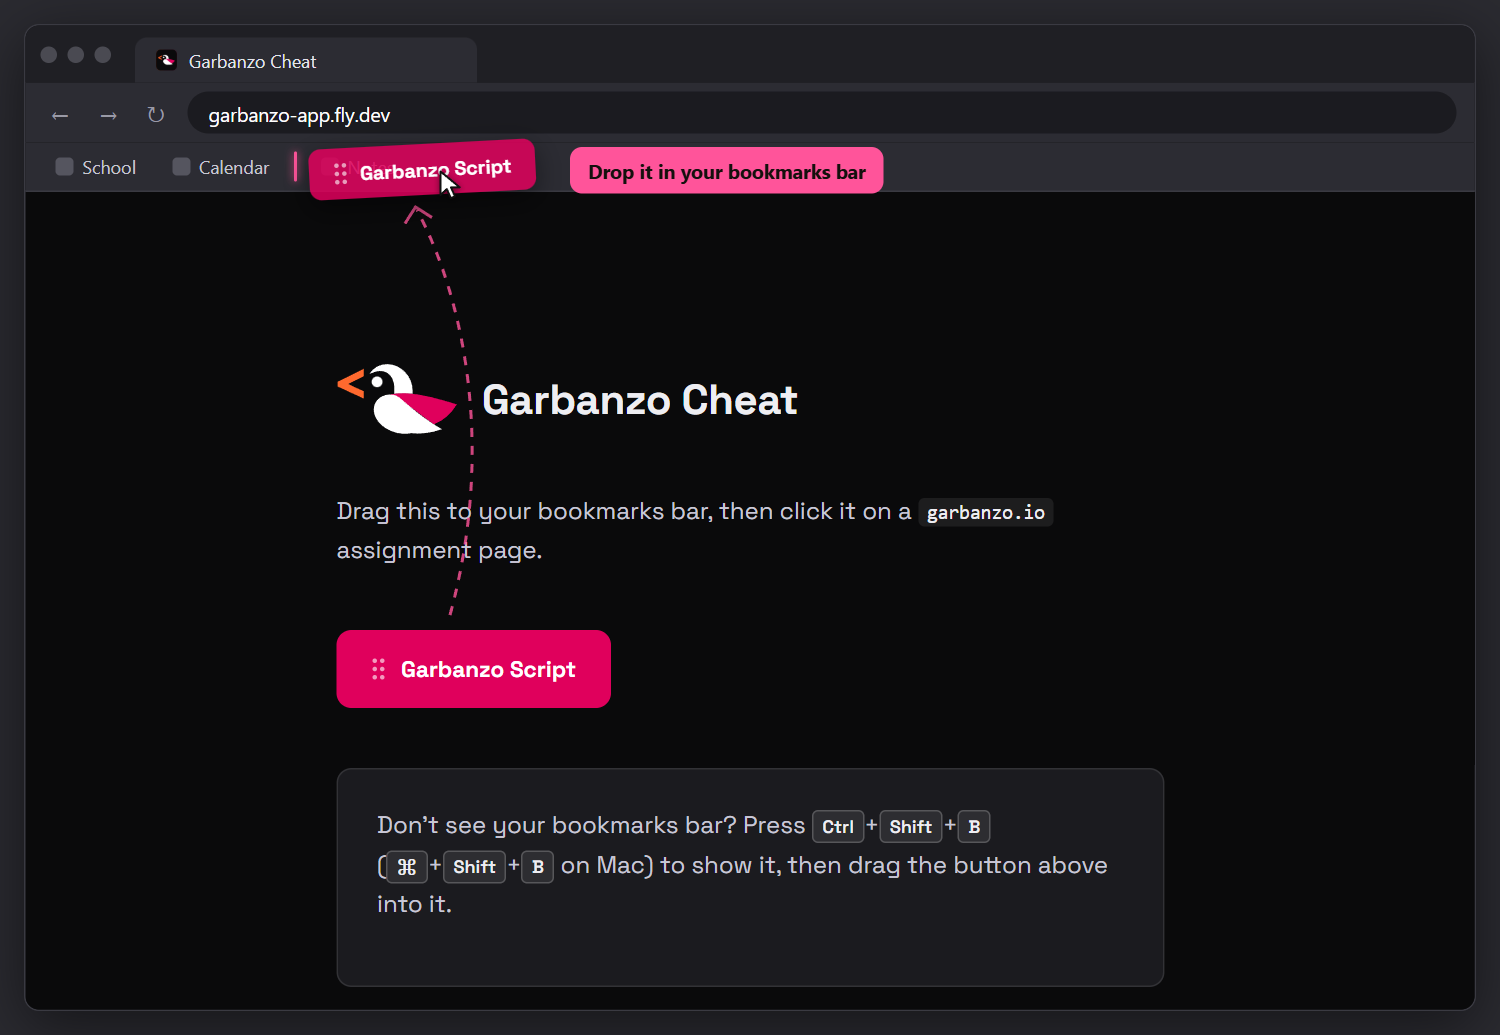
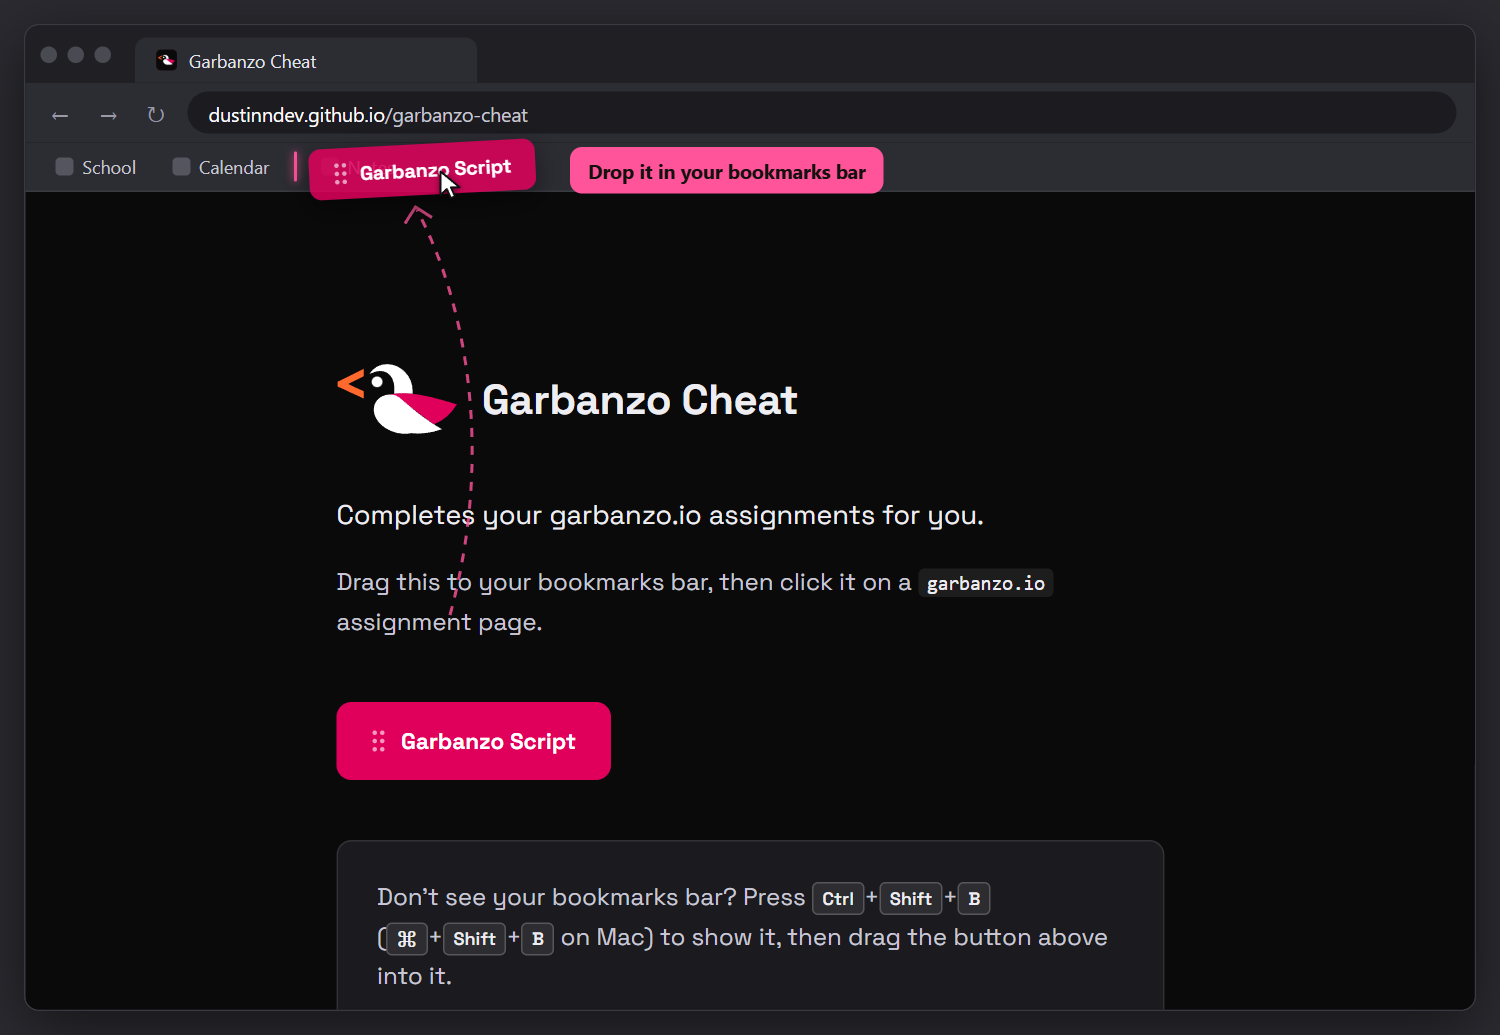
upd

Changed region(s): [[0.2147, 0.4638, 0.736, 0.9585], [0.1533, 0.0928, 0.368, 0.1237]]

diff --git a/README.md b/README.md
@@ -6,7 +6,7 @@ Completes garbanzo.io assignments for you.
 
 ## Setup
 
-Go to **https://garbanzo-app.fly.dev** and drag the **Garbanzo Script** button into your bookmarks bar.
+Go to **https://dustinndev.github.io/garbanzo-cheat** and drag the **Garbanzo Script** button into your bookmarks bar. (Also at https://garbanzo-app.fly.dev.)
 
 ![Dragging the Garbanzo Script button into the bookmarks bar](docs/bookmarklet.png)
 
